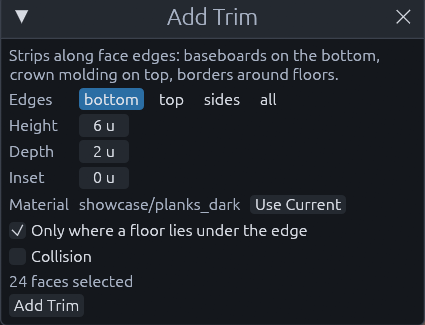
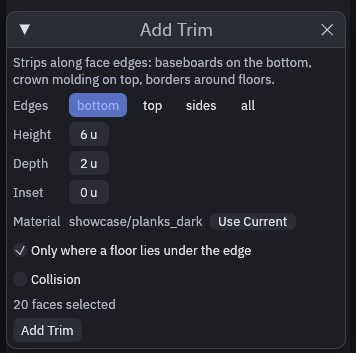
Retake the trim screenshots in the card look

diff --git a/docs/editor/trim.md b/docs/editor/trim.md
@@ -28,7 +28,7 @@ room before and after one click:
     Pick which **Edges** get it: bottom, top, sides or all. **Height** is how far the strip runs over the face,
     **Depth** how far it stands out, and **Inset** leaves a gap between the edge and the strip.
 
-    ![The Add Trim dialog with Edges set to bottom, Height 6 u, Depth 2 u, Inset 0 u, showcase/planks_dark as the material, Only where a floor lies under the edge ticked, Collision off and 24 faces selected](../assets/trim/add-trim-dialog.png)
+    ![The Add Trim dialog with Edges set to bottom, Height 6 u, Depth 2 u, Inset 0 u, showcase/planks_dark as the material, Only where a floor lies under the edge ticked, Collision off and 20 faces selected](../assets/trim/add-trim-dialog.png)
 
 5. Click **Add Trim**
 
